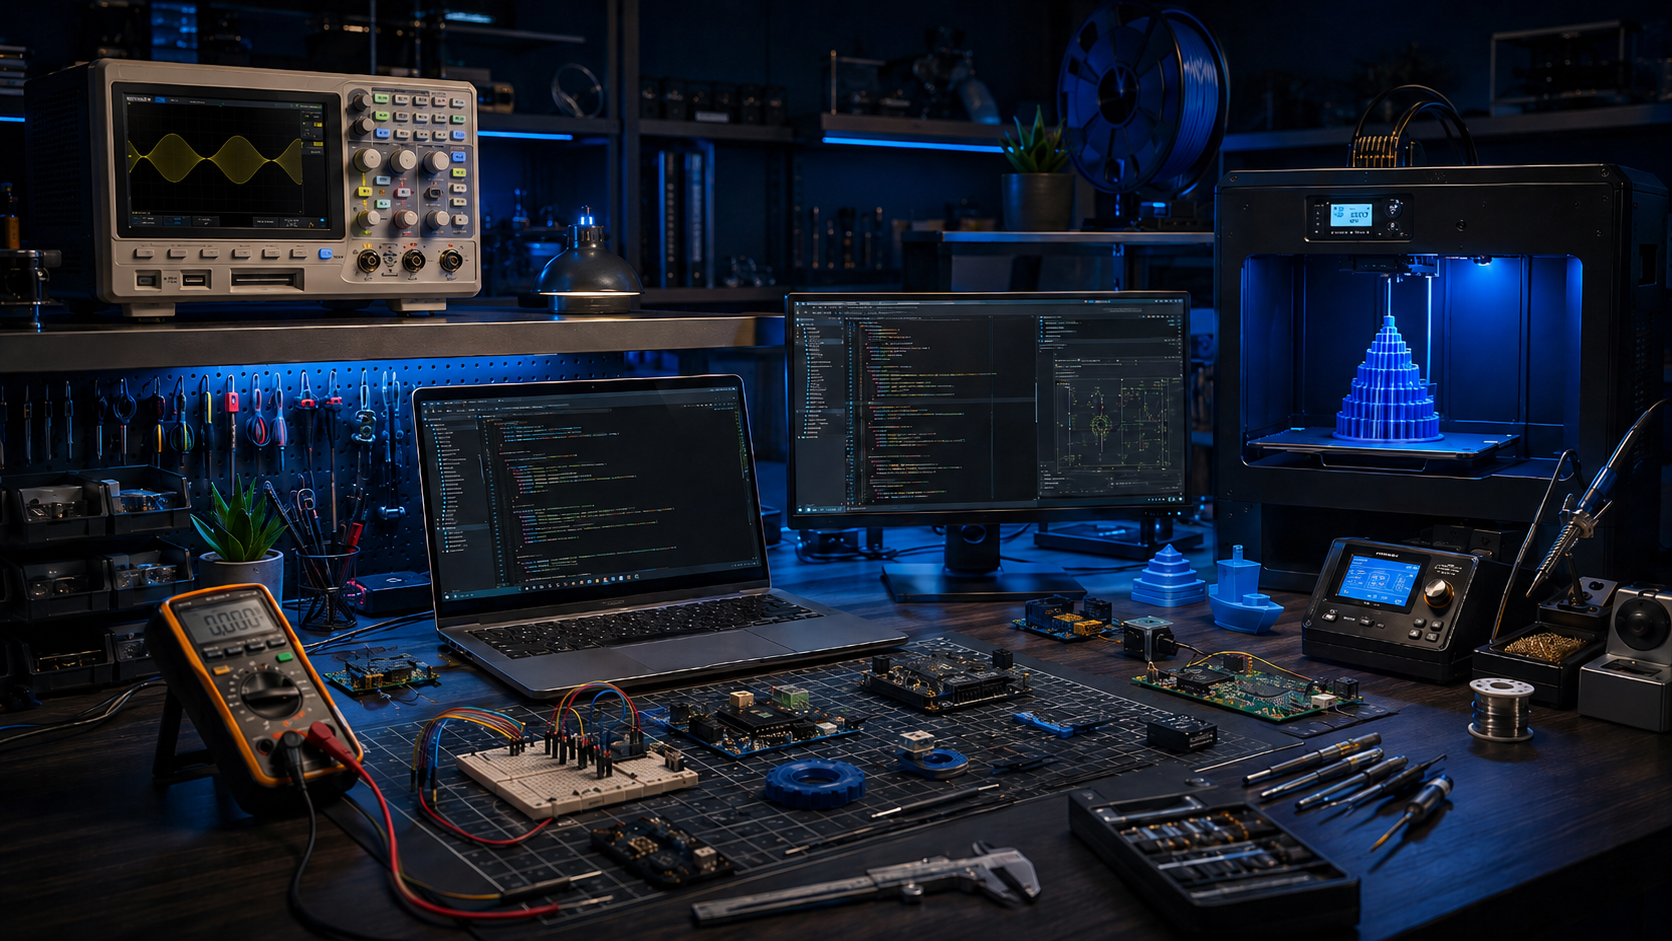
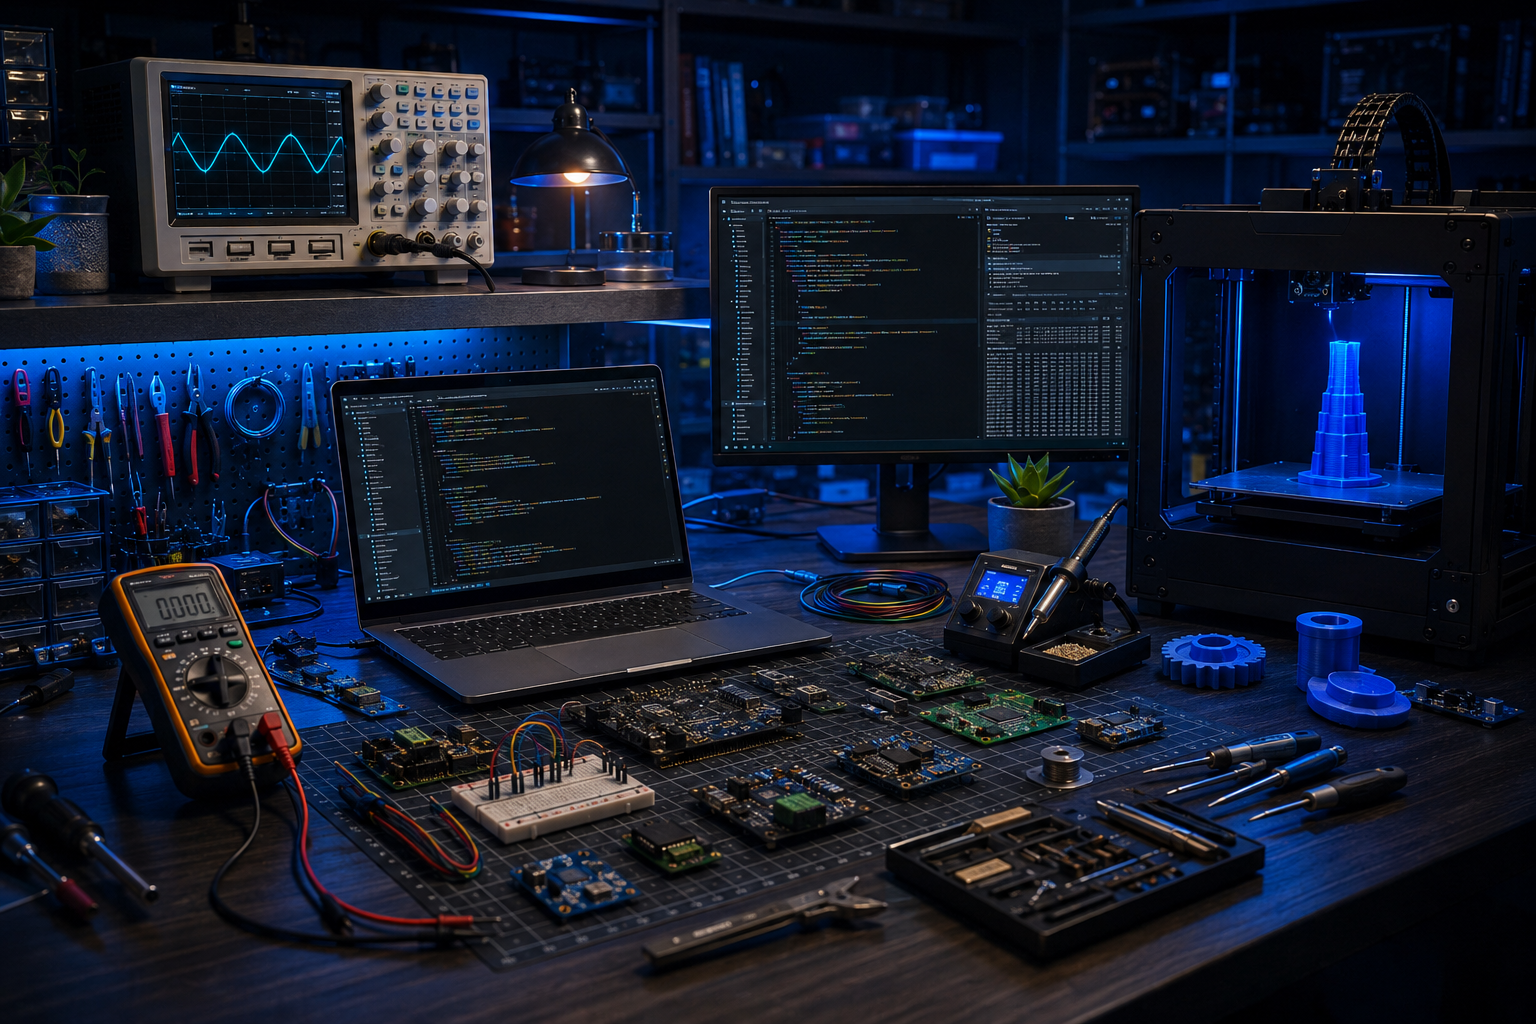
12.06.2026-9

diff --git a/about/index.html b/about/index.html
@@ -56,7 +56,7 @@
           </div>
 
           <div class="floating-card">
-            <img src="../assets/img/workspace-image.png" alt="Engineering" width="900" height="620" fetchpriority="high">
+            <img src="../assets/img/workspace-image.png" alt="Engineering" width="760" height="620" fetchpriority="high">
           </div>
         </div>
       </div>
